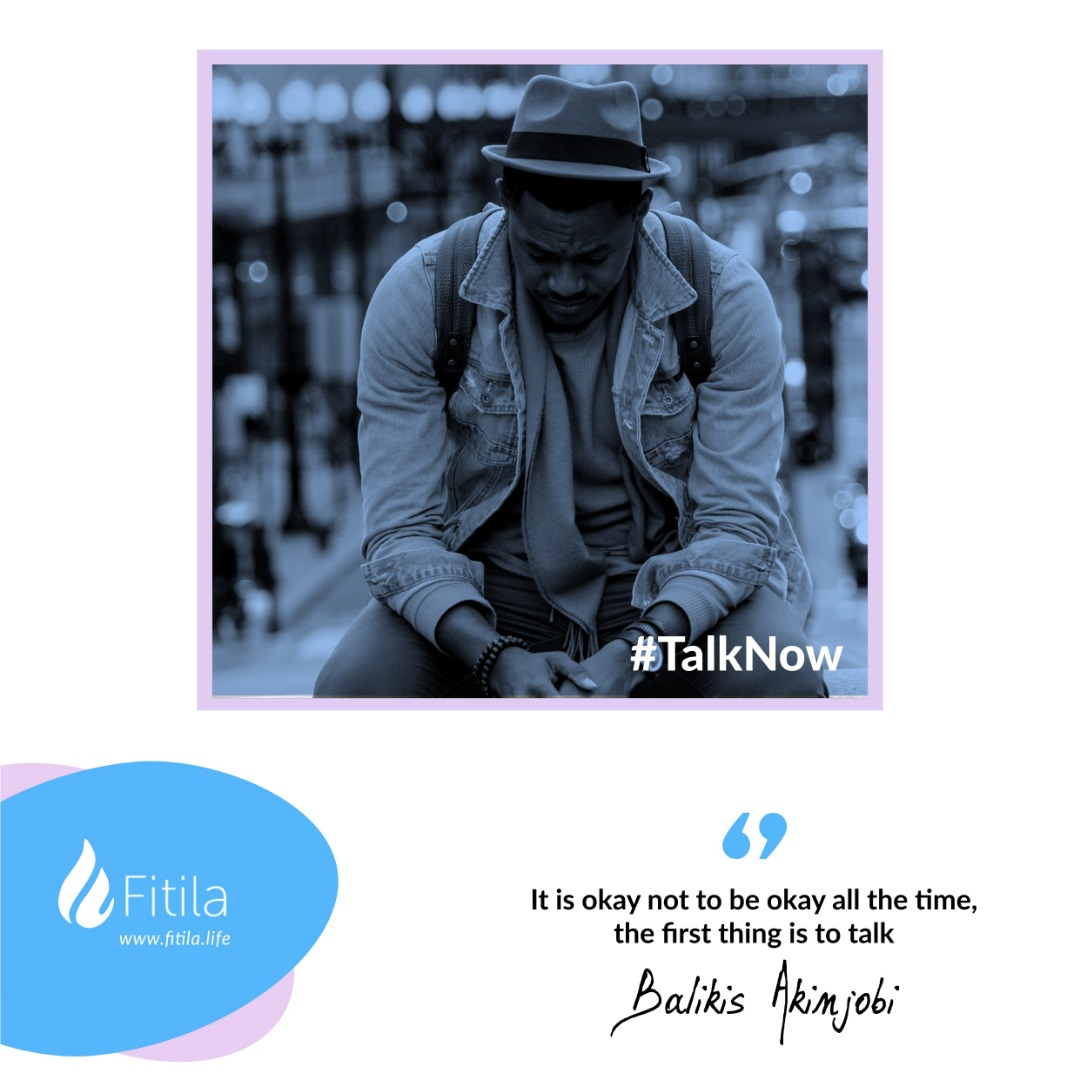
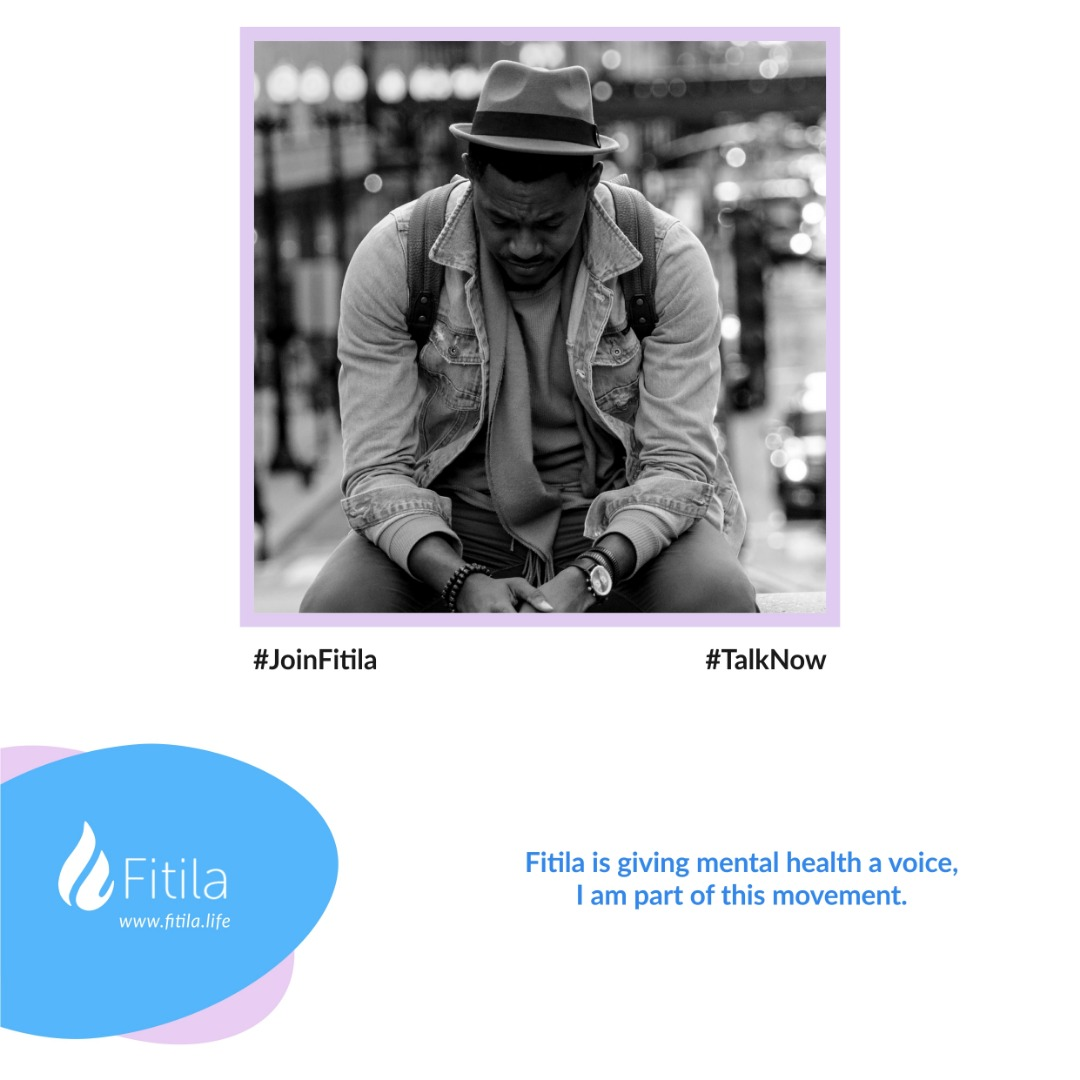
Added a new frame and use the right cordinate for the image

diff --git a/src/js/main.js b/src/js/main.js
@@ -27,9 +27,9 @@ $(function() {
       .html("...processing");
 
     // x, y, width, height
-    const picData = [200, 60, 700, 650];
+    const picData = [247, 41, 585, 572];
     // name, y
-    const nameData = [username, 500];
+    const nameData = [username, 920];
 
     createDP(username, imageData, picData, nameData, function(url) {
       navigateTo("yourdp", createHTMLForImage(url));
@@ -130,16 +130,16 @@ $(function() {
 
       ctx.drawImage(userImg, view.x, view.y, view.width, view.height);
 
-      ctx.textBaseline = "bottom";
-      ctx.font = "bold 20px Arial";
-      ctx.fillStyle = "#fff";
-      ctx.fillText("#TalkNow", view.x + innerText.x, view.y + innerText.y);
+      //ctx.textBaseline = "bottom";
+      //ctx.font = "bold 30px Arial";
+      //ctx.fillStyle = "#fff";
+      //ctx.fillText("#TalkNow", 750, view.y + innerText.y);
 
       ctx.textBaseline = "top";
-      ctx.textAlign = "right";
-      ctx.font = "normal 18px Candara";
+      ctx.textAlign = "center";
+      ctx.font = "italic 50px Caveat";
       ctx.fillStyle = "#000";
-      ctx.fillText(name[0], view.x + view.width, name[1]);
+      ctx.fillText(name[0], 750, name[1]);
 
       cb(canvas.toDataURL("image/jpeg", 1.0));
     }
